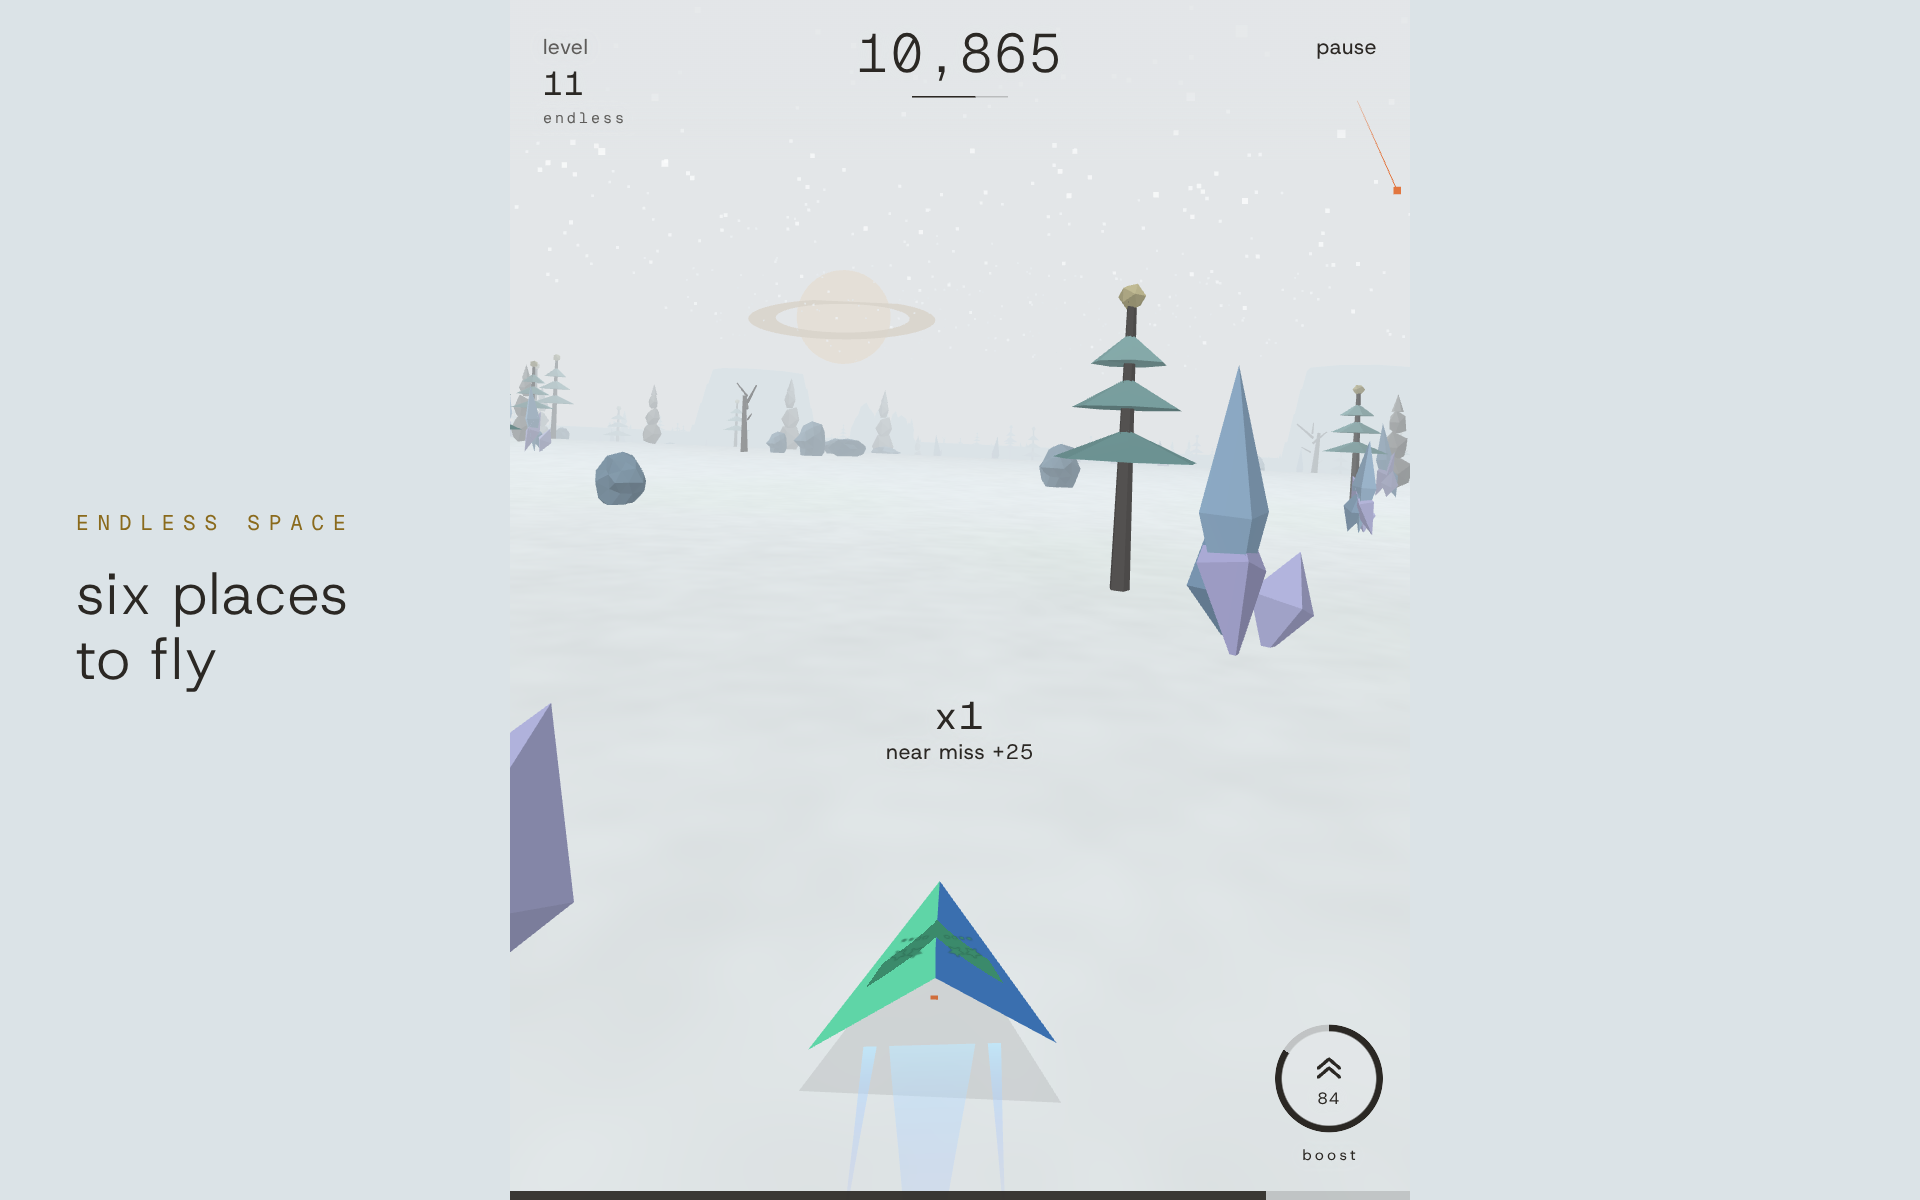
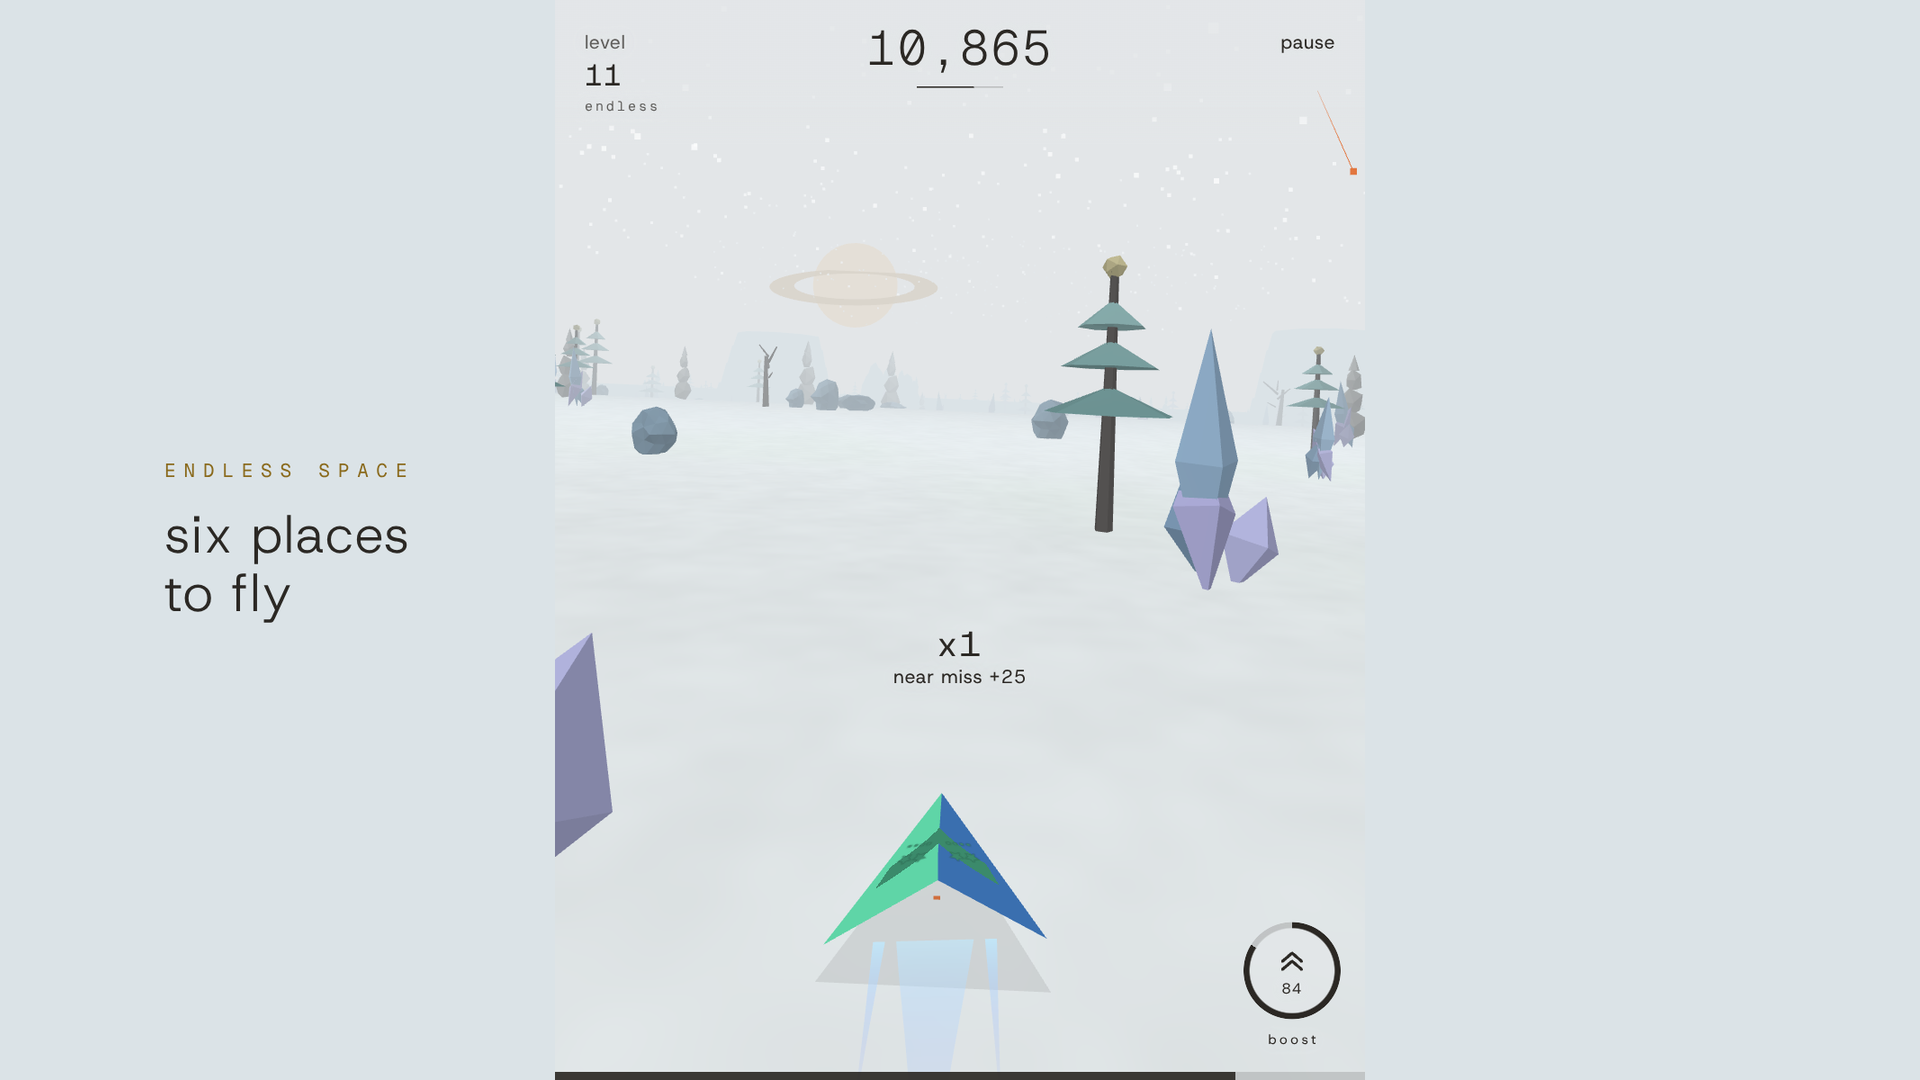
Store screenshots: tablet shots at 1920x1080 (Play wants 16:9), nothing cropped

diff --git a/docs/store-listing.md b/docs/store-listing.md
@@ -93,8 +93,8 @@ paper background; no device frames.
 | `phone-04.png` | 1080 × 1920 | 160+ looks for your ship | the hangar, paints |
 | `phone-05.png` | 1080 × 1920 | something new every day | goals: the login calendar and today's goals |
 | `phone-06.png` | 1080 × 1920 | climb the ranks | the service record |
-| `tablet-01.png` | 1920 × 1200 | six places to fly | the ice field, level 11, on a tablet held sideways |
-| `tablet-02.png` | 1920 × 1200 | 160+ looks for your ship | the hangar on a tablet held sideways |
+| `tablet-01.png` | 1920 × 1080 | six places to fly | the ice field, level 11, on a tablet held sideways |
+| `tablet-02.png` | 1920 × 1080 | 160+ looks for your ship | the hangar on a tablet held sideways |
 
 How they were made: a fresh save with the dev panel's "unlock all" (every
 look, the top rank and league), the phantom hull in the aurora paint, three
